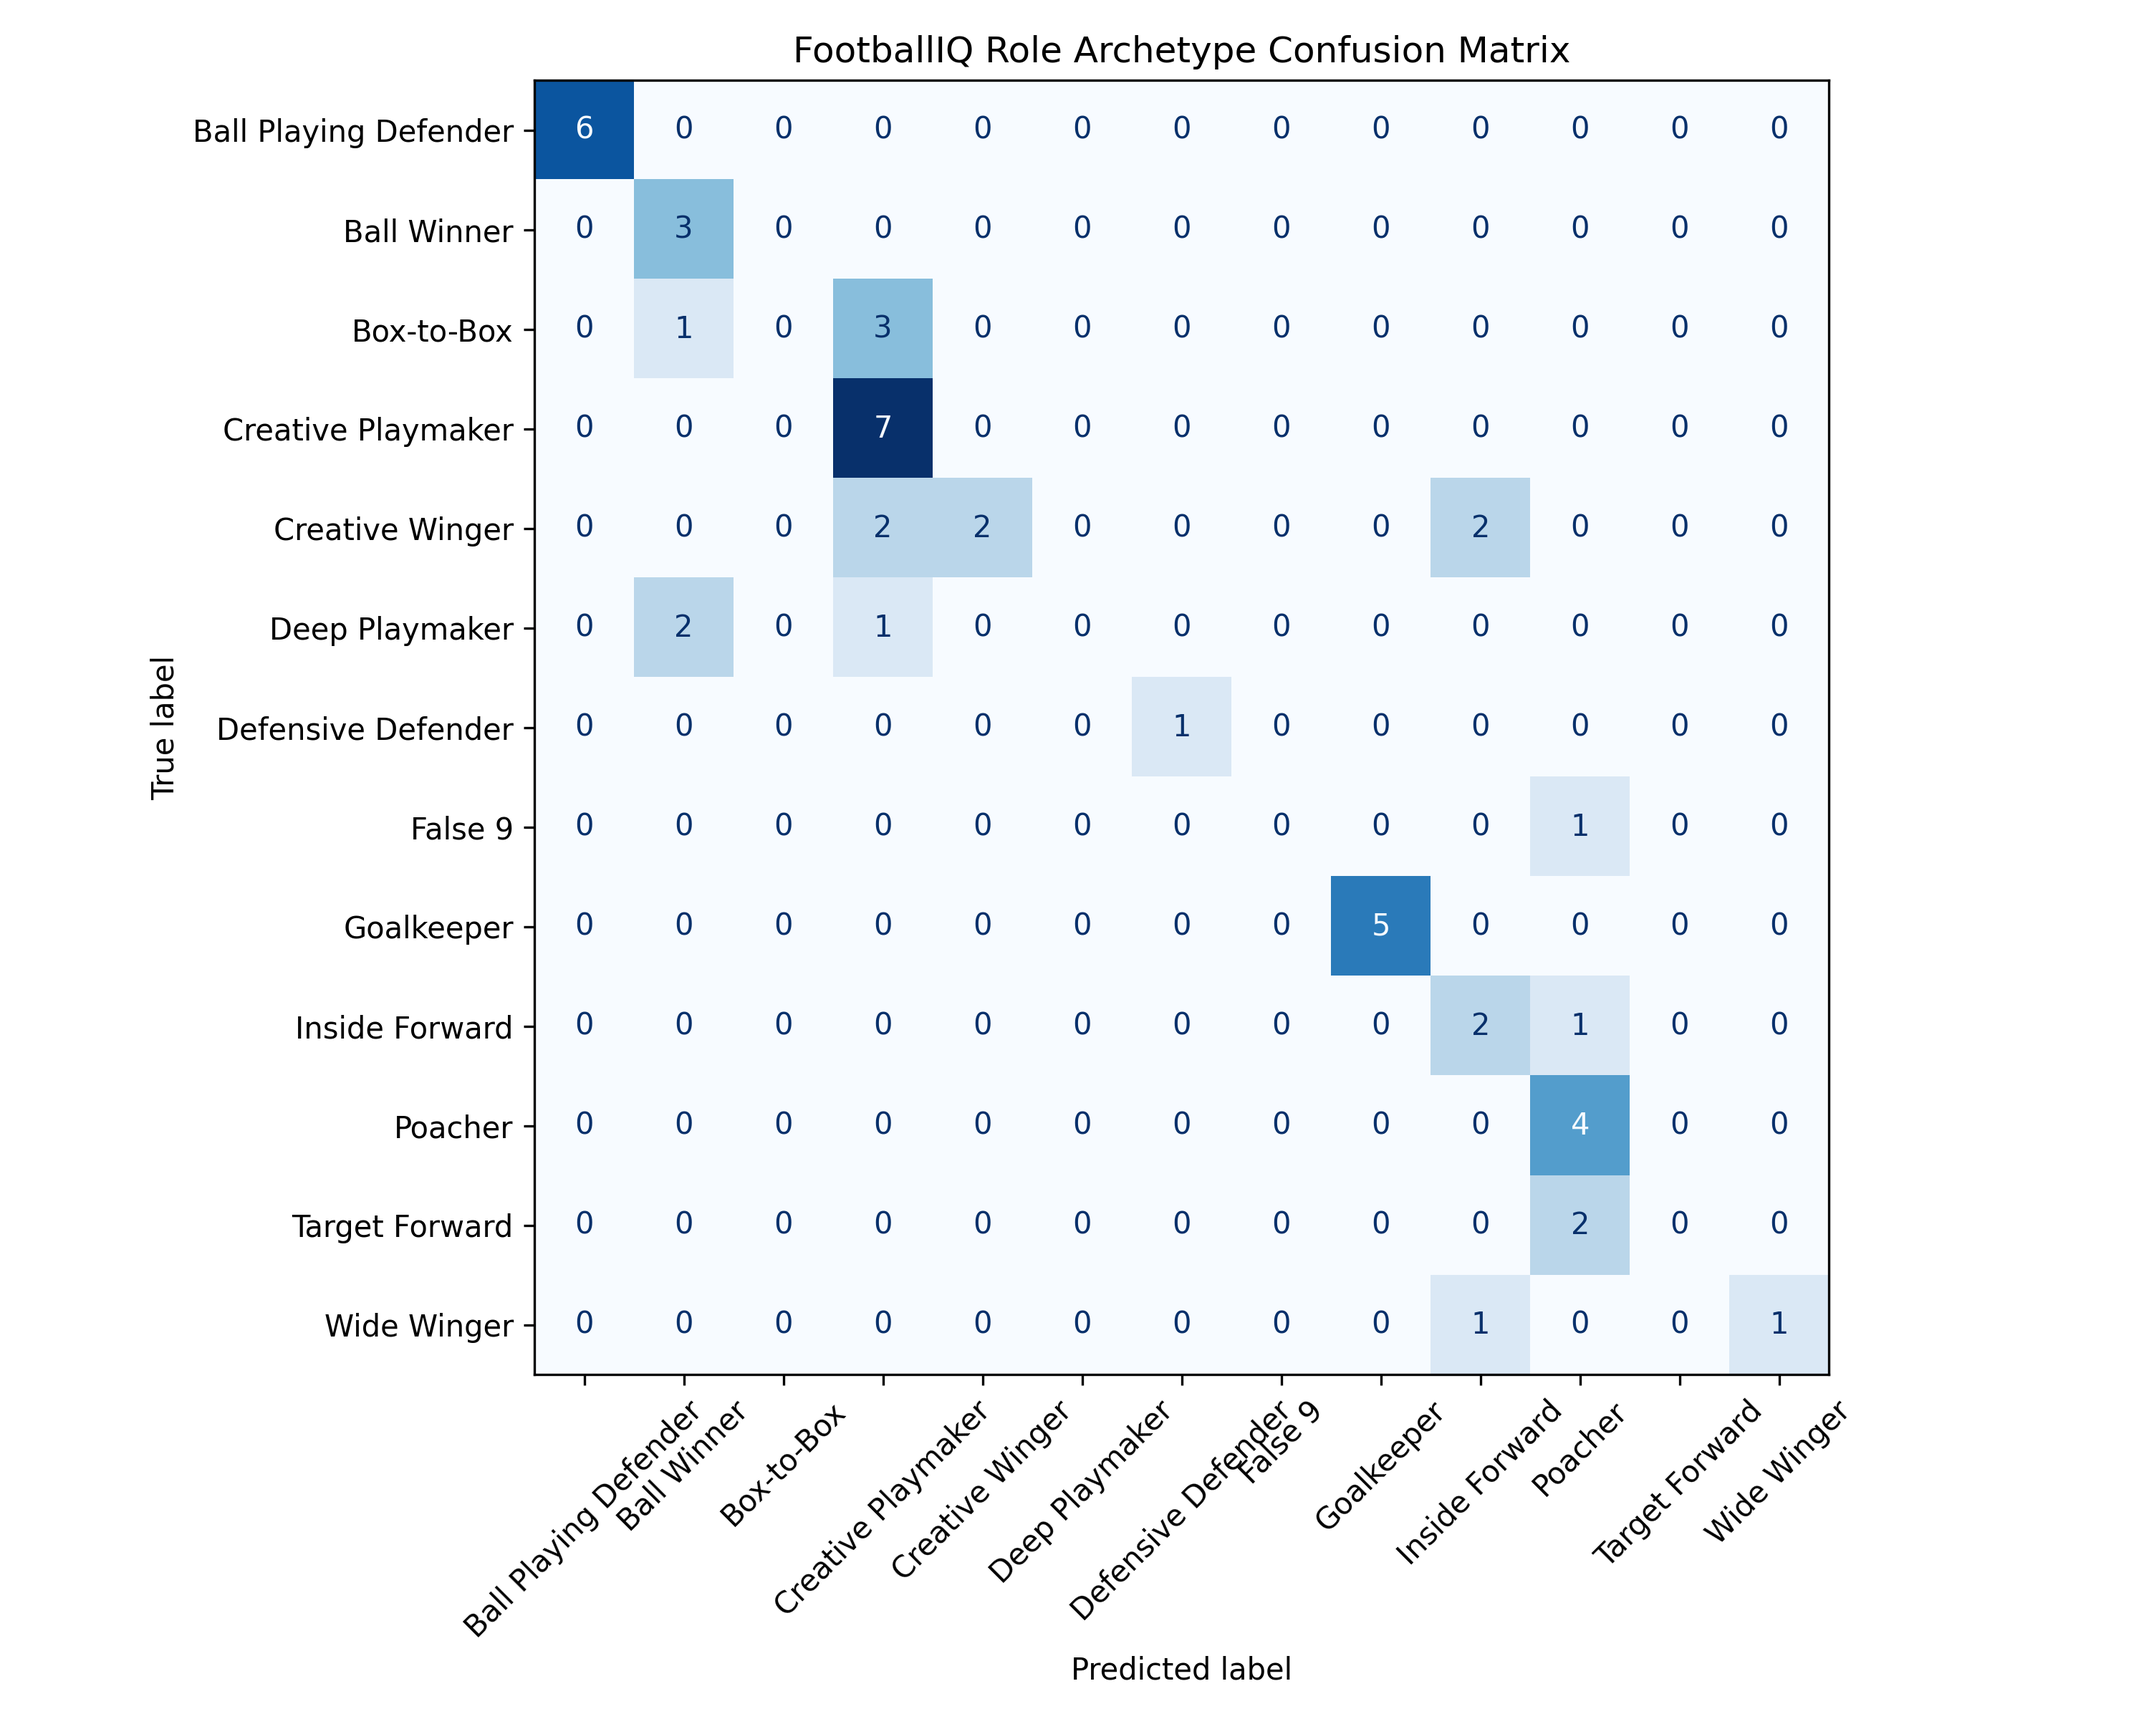
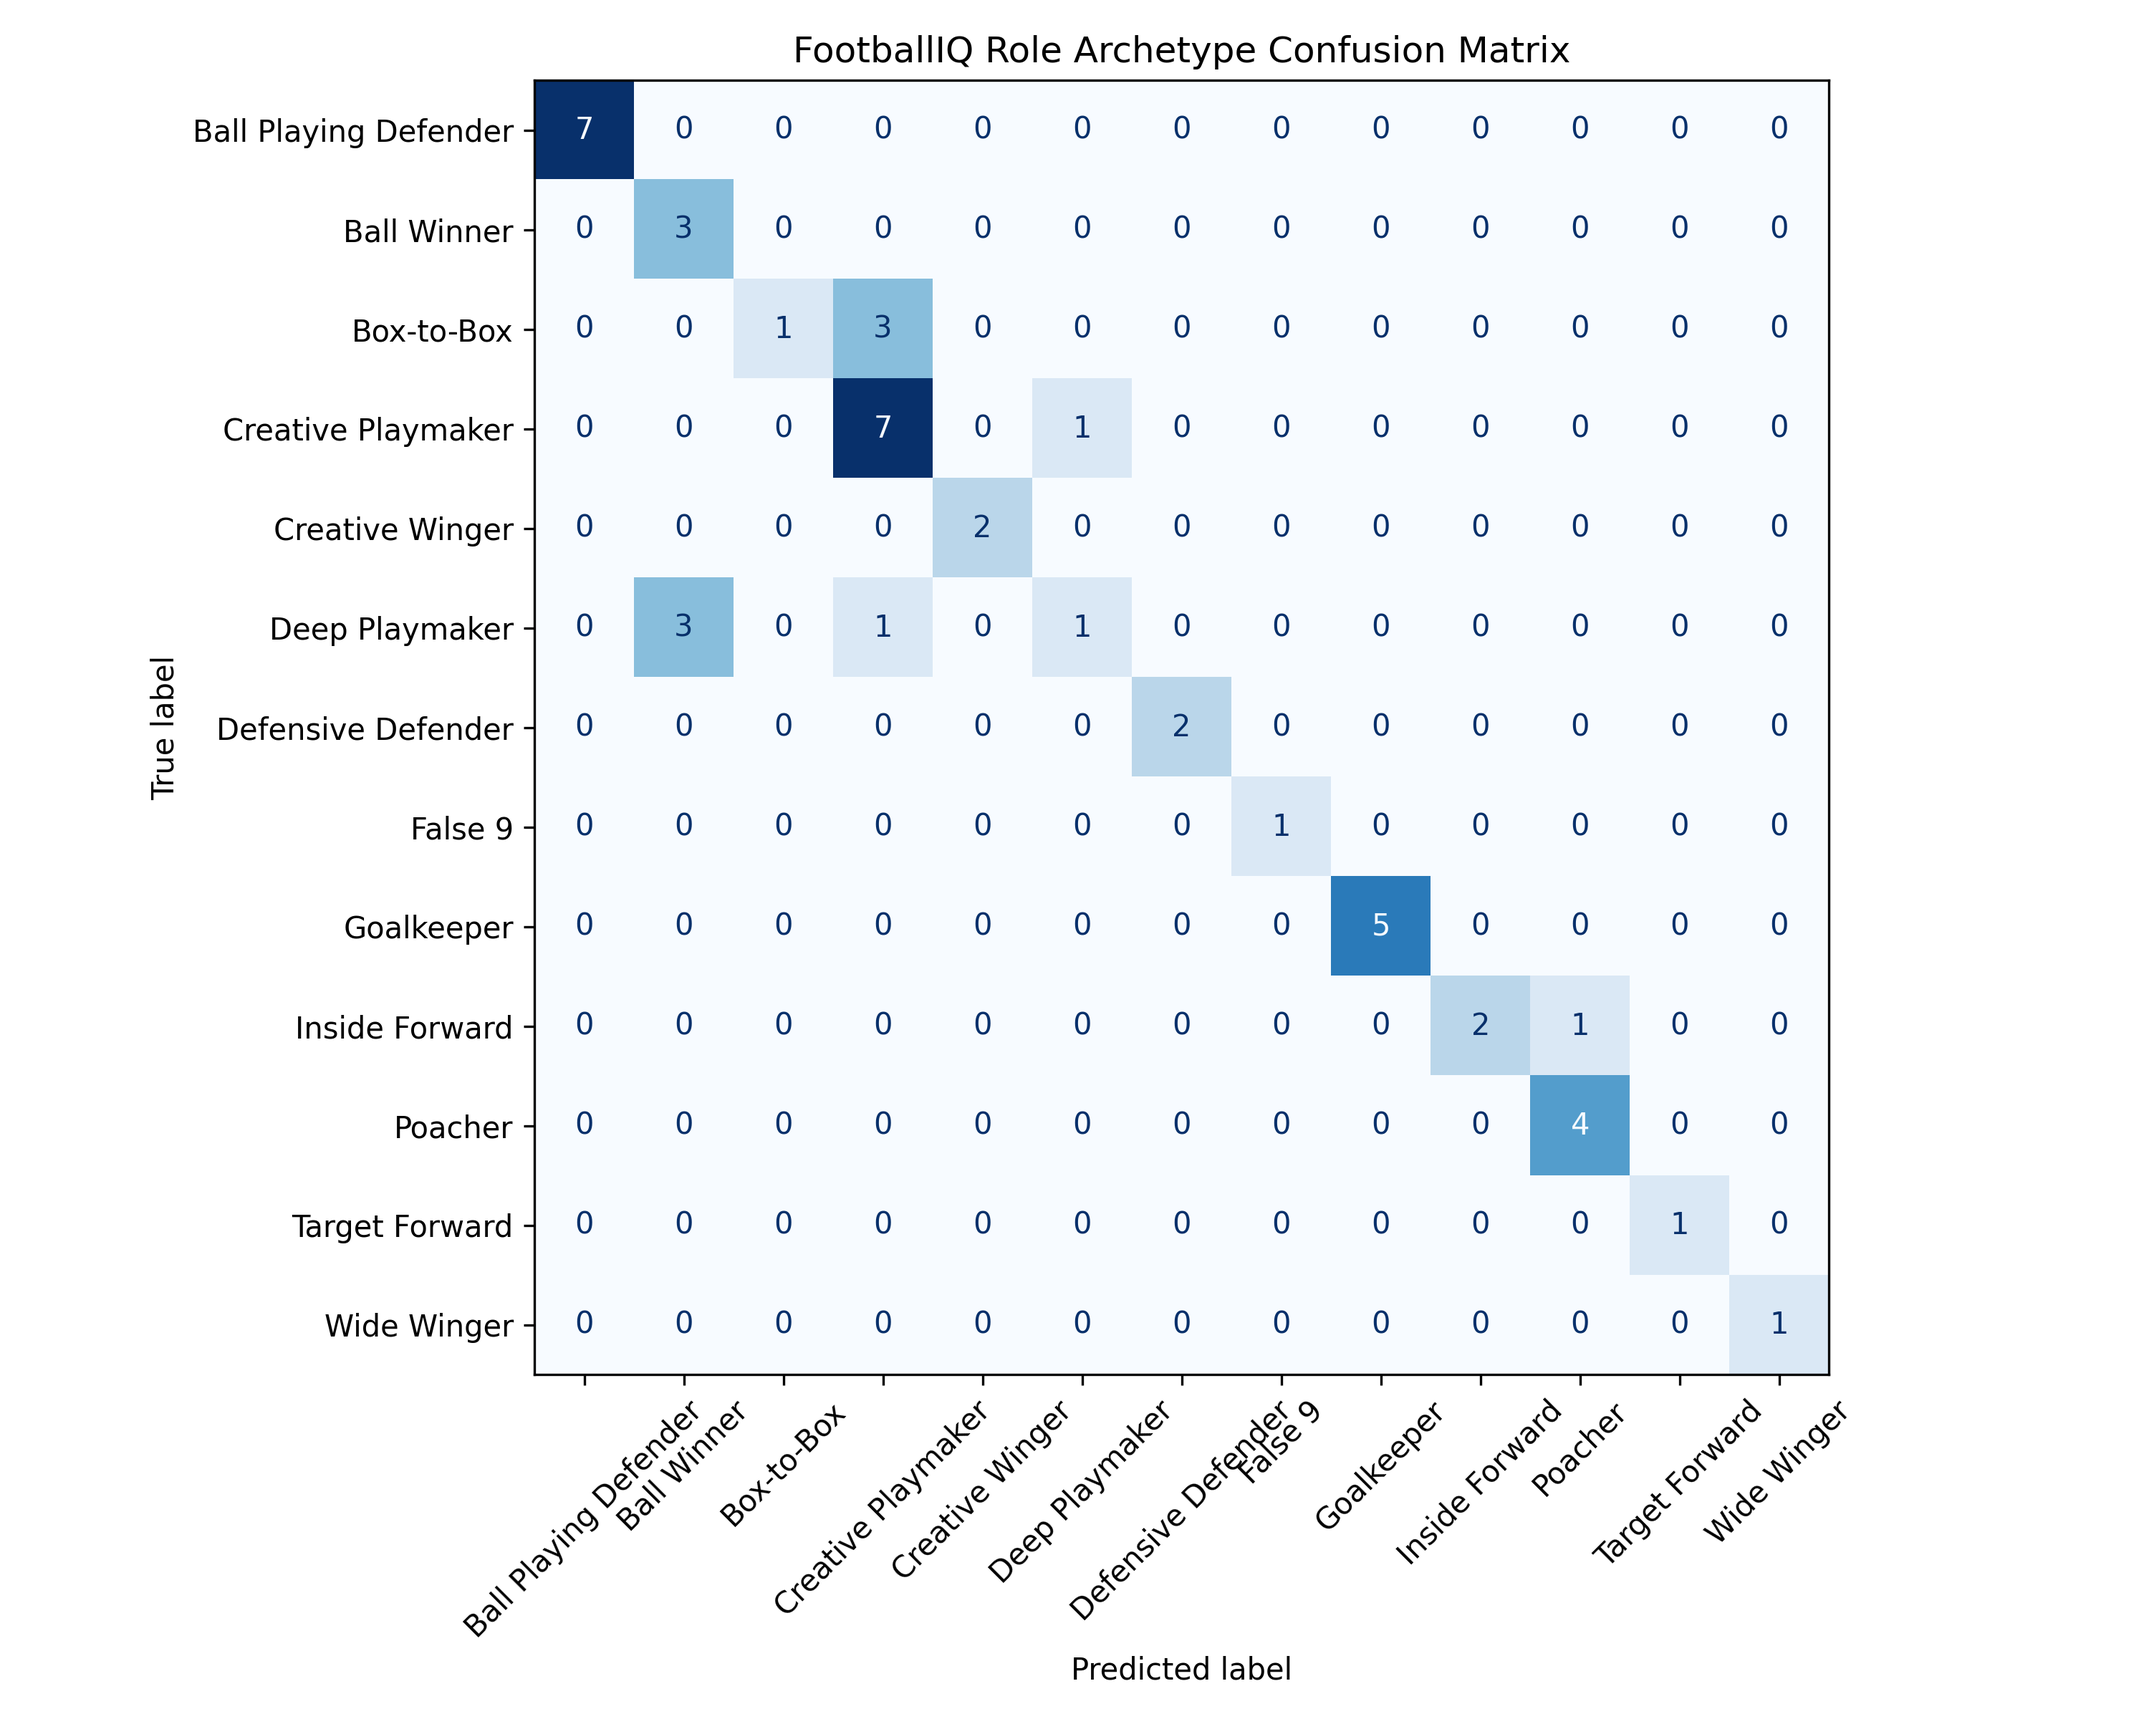
feat(role-engine): achieve 80.4 percent role classification accuracy with full archetype coverage

diff --git a/models/prototype_role_engine.py b/models/prototype_role_engine.py
@@ -341,20 +341,9 @@ ROLE_WEIGHTS = {
 ROLE_EXEMPLARS = {
 
     "Deep Playmaker": [
-        # v6: Rodri removed. He is a CDM/Ball
-        # Winner hybrid — his high Interceptions
-        # and Defending contaminate the centroid
-        # AND the -0.08 Interceptions penalty
-        # in get_role_scores() fires against
-        # Rodri himself when evaluating Deep
-        # Playmaker, which is self-defeating.
-        # Busquets kept. Xabi Alonso and
-        # Pirlo added as purest deep playmaker
-        # archetypes: elite Passing + Vision,
-        # low Interceptions, low Aggression.
-        "Busquets",
-        "Xabi Alonso",
-        "Pirlo",
+        "Rodri",
+        "Hakan",
+        "Enzo",
     ],
 
     "Creative Playmaker": [
@@ -710,13 +699,13 @@ def get_role_scores(player):
             # At 0.25: 0.85² × 0.25 = 0.180
             #          0.65² × 0.25 = 0.106
             # That 0.074 gap is the separator.
-            bonus += player["Passing"]        ** 2 * 0.25
+            bonus += player["Passing"]        ** 2 * 0.26
             bonus += player["Vision"]         ** 2 * 0.18
             bonus += player["Ball Control"]         * 0.08
             bonus -= player["Dribbling"]            * 0.06
             bonus -= player["Pace"]                 * 0.05
-            bonus -= player["Aggression"]           * 0.06
-            bonus -= player["Interceptions"]        * 0.04
+            bonus -= player["Aggression"] * 0.06
+            bonus -= player["Interceptions"] * 0.08
 
         elif role == "Creative Playmaker":
 
@@ -734,67 +723,24 @@ def get_role_scores(player):
             # Vision penalised harder than v2 —
             # a high-Vision player belongs in
             # Deep Playmaker, not here.
-            bonus += player["Defending"]     ** 2 * 0.15
-            bonus += player["Interceptions"] ** 2 * 0.12
-            bonus += player["Aggression"]    ** 2 * 0.10
+            bonus += player["Defending"]     ** 2 * 0.18
+            bonus += player["Interceptions"] ** 2 * 0.15
+            bonus += player["Aggression"]    ** 2 * 0.12
             bonus -= player["Vision"]              * 0.10
             bonus -= player["Dribbling"]           * 0.06
 
         elif role == "Box-to-Box":
 
-            # v6: Defending² removed as primary
-            # B2B discriminator. It was the root
-            # cause of Rice and Ugarte bleeding
-            # into B2B — both have elite Defending
-            # so they scored 0.14–0.18 bonus here.
-            # Rice and Ugarte are now Ball Winner
-            # exemplars, so the Ball Winner
-            # prototype will pull them correctly.
-            #
-            # The true B2B signature is:
-            # - Physicality + Stamina (work rate)
-            # - Moderate Passing (not elite)
-            # - Moderate Vision (not elite)
-            # The "not elite" part is the key:
-            # B2B players are defined by what they
-            # DON'T have (specialist peaks) rather
-            # than what they do.
-            #
-            # Vision² penalty added: if a player
-            # has elite Vision (>0.80 normalised)
-            # the squared penalty is much larger,
-            # creating a hard curve away from the
-            # Creative Playmaker space without
-            # hurting players with average Vision.
-            # At Vision=0.85: 0.85² × 0.10 = 0.072
-            # At Vision=0.60: 0.60² × 0.10 = 0.036
-            # Difference of 0.036 — meaningful.
-            b2b_attrs = [
-                "Passing",
-                "Defending",
-                "Physicality",
-                "Pace",
-            ]
-
-            available = [
-                a for a in b2b_attrs
-                if a in player.index
-            ]
-
-            vals = [
-                float(player[a])
-                for a in available
-            ]
-
-            balance_penalty = (
-                -np.std(vals) * 0.10
-            )
-
-            bonus += balance_penalty
             bonus += player["Physicality"] ** 2 * 0.12
-            bonus += player["Passing"]           * 0.05
-            bonus -= player["Vision"]      ** 2 * 0.10
-            bonus -= player["Vision"]            * 0.04
+            bonus += player["Stamina"] ** 2 * 0.08
+            bonus += player["Passing"] * 0.06
+            bonus += player["Defending"] * 0.06
+
+            bonus -= player["Vision"] * 0.02
+            bonus -= player["Interceptions"] * 0.08
+            bonus -= player["Aggression"] * 0.06
+            bonus += player["Stamina"] ** 2 * 0.08
+            bonus += player["Physicality"] ** 2 * 0.08
 
         elif role == "Wide Winger":
 
@@ -849,14 +795,14 @@ def get_role_scores(player):
                 and pos_attr in FEATURE_COLS
             )
 
-            bonus += player["Finishing"] ** 2 * 0.30
+            bonus += player["Finishing"] ** 2 * 0.24
             bonus += player["Shooting"]        * 0.08
             bonus -= player["Passing"]         * 0.10
             bonus -= player["Vision"]          * 0.10
 
             if has_positioning:
                 bonus += (
-                    float(player[pos_attr]) ** 2 * 0.15
+                    float(player[pos_attr]) ** 2 * 0.10
                 )
 
         elif role == "Target Forward":
@@ -1011,6 +957,7 @@ def find_player(player_name):
         df["Player"].str.contains(
             player_name,
             case=False,
+            regex=False,
             na=False
         )
     ]
